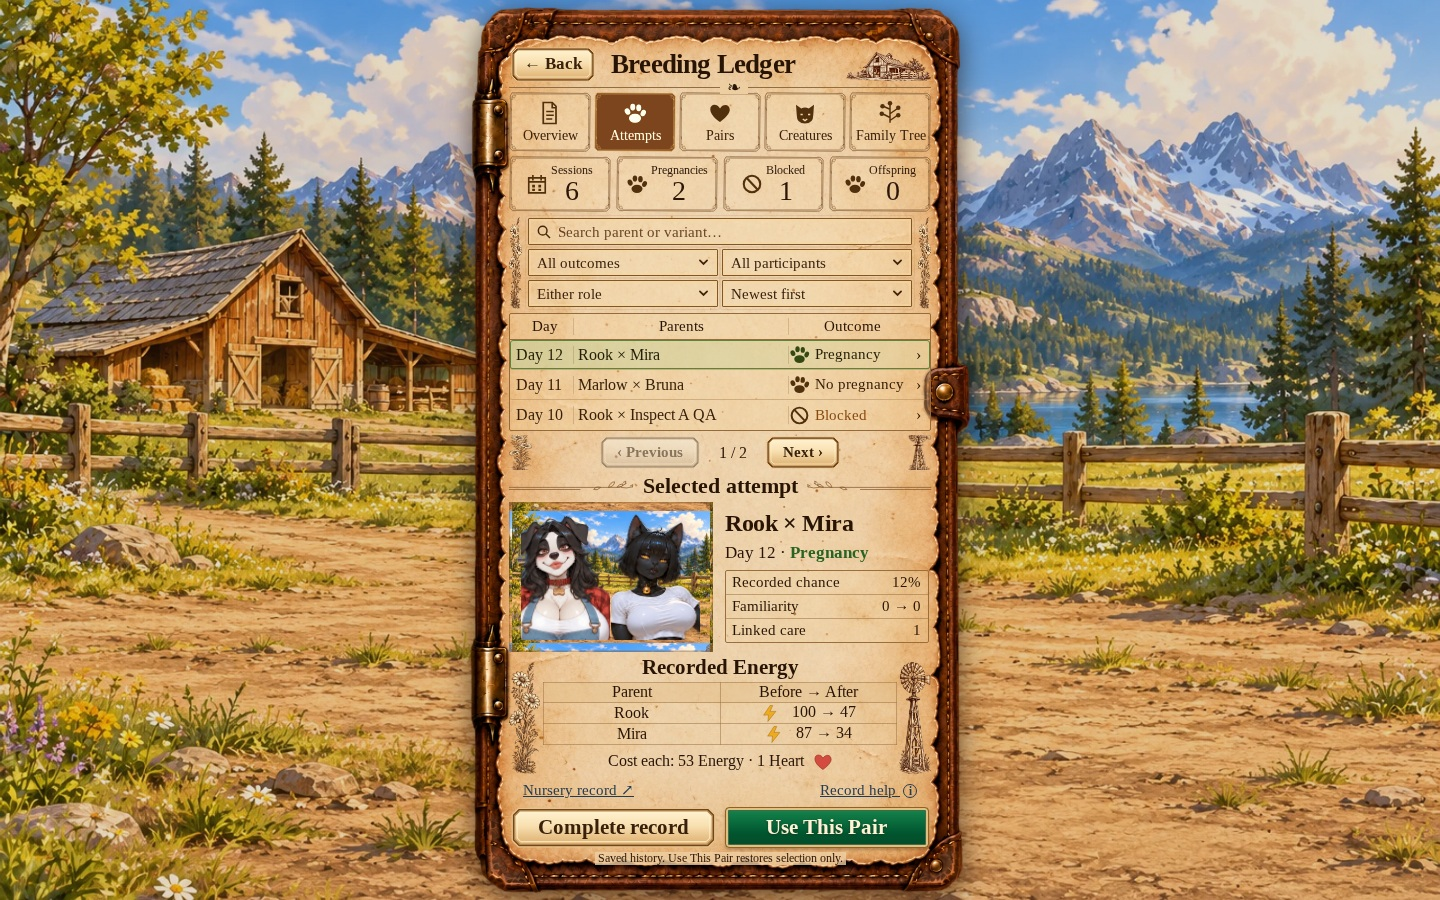
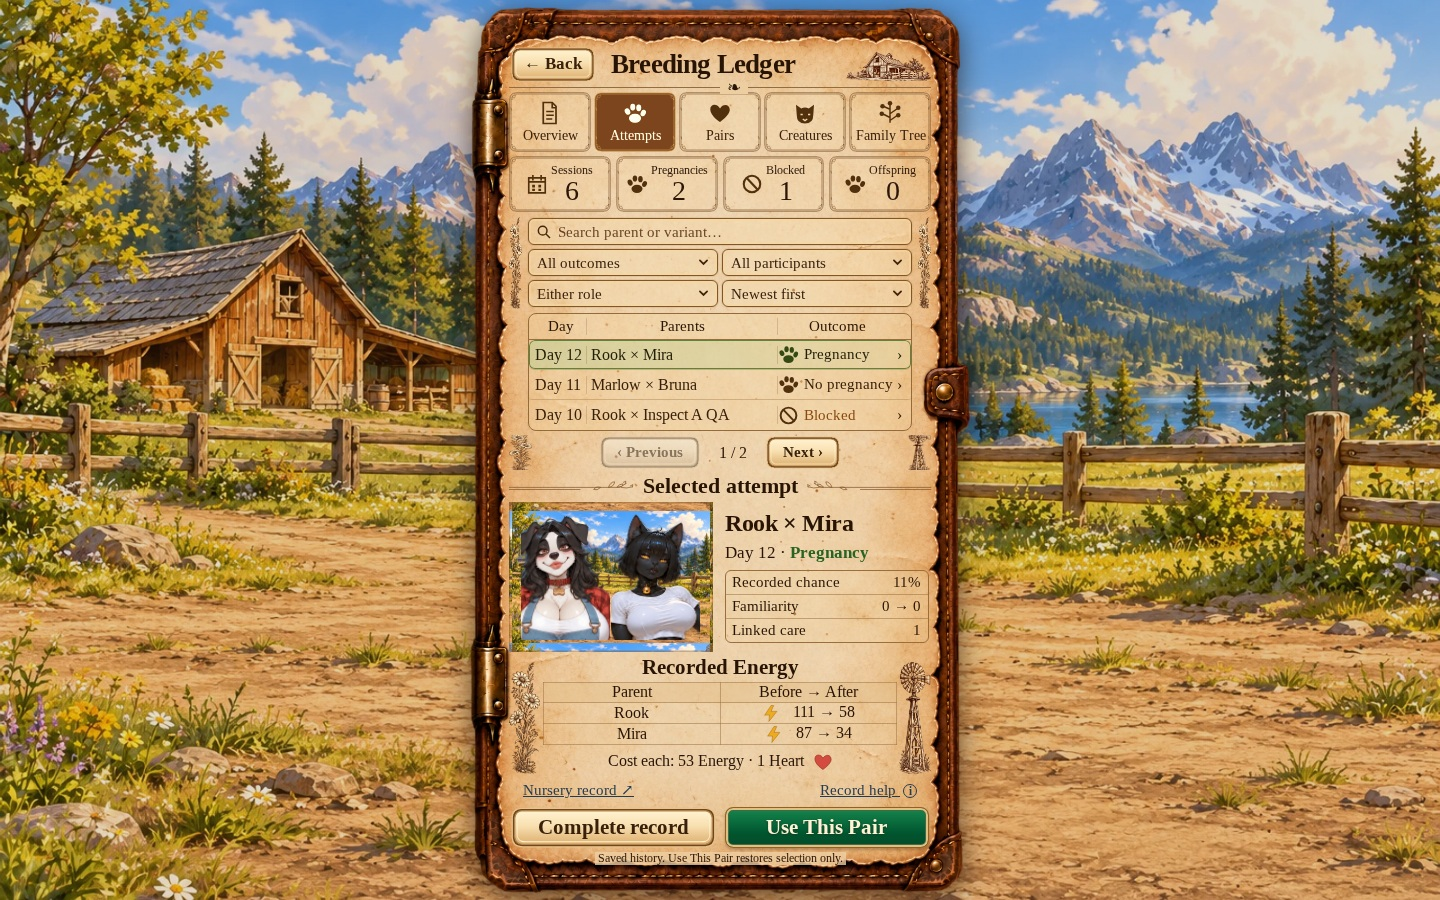
Round Ledger B controls and inset history to the paper gutters

diff --git a/src/features/breeding-records/BreedingLedgerBook.module.css b/src/features/breeding-records/BreedingLedgerBook.module.css
@@ -69,3 +69,19 @@
 .metrics>div{min-width:0}.metrics dt,.metrics dd{max-width:100%;overflow-wrap:anywhere}.comparison{table-layout:fixed}
 .tableHeader,.shell .row[data-attempt=true]{column-gap:0;padding-left:6px;padding-right:6px}
 @media(max-width:700px){.tableHeader,.shell .row[data-attempt=true]{padding-left:5px;padding-right:5px}}
+
+/* B rounded-edge reference pass: equal paper gutters and soft engraved corners. */
+.shell button{border-image-source:url('/images/ui/breeding-ledger-journal-b/fidelity-v5/cream.svg')}
+.shell .tabs button,.counts>div{border-image-source:url('/images/ui/breeding-ledger-journal-b/fidelity-v5/tab.svg')}
+.shell .tabs button[aria-pressed=true]{border-image-source:url('/images/ui/breeding-ledger-journal-b/fidelity-v5/tab-active.svg')}
+.shell .profile,.shell .link,.shell .row,.shell button[data-primary]{border-image:none}
+.filters :is(input,select){border-radius:6px;outline:none;box-shadow:inset 0 0 0 2px #f6d79c88,0 0 0 1px #b28b5933}
+.list{margin-inline:19px;border-radius:8px;flex-shrink:0}
+.shell .row[aria-pressed=true]{border-radius:6px}
+.summary dl{border-radius:6px;overflow:hidden}
+.content dl>div,.metrics>div{border-radius:6px}
+.actions button[data-primary]{border-radius:8px}
+.tableHeader,.shell .row[data-attempt=true]{grid-template-columns:52px minmax(0,1fr) 119px 8px}
+@media(max-width:700px){.list{margin-inline:14px}.tableHeader,.shell .row[data-attempt=true]{grid-template-columns:40px minmax(0,1fr) 94px 7px}.shell .row[data-attempt=true]>strong{padding-left:3px;padding-right:3px}}
+@media(max-height:600px){.list{margin-inline:8px}}
+@media(min-width:701px) and (max-height:500px){.list{margin-inline:0}.tableHeader,.shell .row[data-attempt=true]{grid-template-columns:43px minmax(0,1fr) 98px 7px}}

diff --git a/docs/BREEDING_LEDGER_JOURNAL_B_RUNTIME.md b/docs/BREEDING_LEDGER_JOURNAL_B_RUNTIME.md
@@ -14,3 +14,9 @@ User compared the next actual capture with B again. Fidelity-v3 adds visibly age
 
 ## Fourth pass: physical containment
 The user explicitly requested no content extending outside borders or lines. Fidelity-v4 removes the misleading painted inset rectangle, while retaining aged paper/leather. Native header/button heights, illustration frame insets, summary numeric columns and table separators now describe the actual content area. QA checks direct children against physical parent frames and direct text ranges against controls/cells, including real long-name short views; intentional scenic crops remain clipped and open full canonical figures on tap.
+
+## Rounded edges and history inset — October 26, 2026
+
+The user identified square-edged boxes and an overly wide Day / Parents / Outcome table. `fidelity-v5` refines existing editable SVG controls with curved double rules, preserving the etched corner details and paper/active colors. Filters, selected summary and record cards now have 6px corners; the history has an 8px outer corner. History is inset 19px on desktop and 14px on phones, sharing the actual filter-input edges, with shared narrower header/body columns. Short landscape retains its separate compact composition. No folio, character sources, data, callbacks or save behavior changed.
+
+Validation adds explicit rounded-control and equal history/filter-gutter assertions, retaining six viewport, parent-frame, actual text-range, aligned-column, long-name, archived/empty and all-eight read-only navigation checks. The history fixture is regenerated through the actual engine; its expected chance is read from the saved record rather than hardcoded to a previous randomized fixture.

diff --git a/AGENTS.md b/AGENTS.md
@@ -217,3 +217,5 @@ Ledger B second fidelity pass: preserve fidelity-v2's500px desktop folio, strong
 Ledger B third fidelity pass: use fidelity-v3's aged amber folio and translucent paper tabs/counts, regular tab/count typography, stronger engraved illustration corners, botanical heading rules and search/dropdown symbols. This refines v2, while reusing its detailed sepia margin art and canonical close profile sources. Keep UI text live and primary views inside the viewport; verify screenshot geometry after spacing/font changes.
 
 Ledger B containment follow-up: use fidelity-v4's folio without the baked inner rectangle that crossed live controls. Preserve physical picture-frame insets, clipped scenic profile buttons with complete-figure view, aligned table columns and summary grids. QA must check parent-frame bounds and actual text ranges as well as viewport/sibling bounds, including short long-name views. Do not hide text or controls to make checks pass.
+
+Ledger B rounded-edge follow-up: use fidelity-v5’s curved double-rule tab/count/cream controls, rounded filters/summary/history and history margins aligned with the actual filter-input gutters. Keep shared header/body column widths; do not expand the history back to the leather edge. Preserve v4 physical/text containment checks and canonical art.

diff --git a/public/images/ui/breeding-ledger-journal-b/fidelity-v5/README.md b/public/images/ui/breeding-ledger-journal-b/fidelity-v5/README.md
@@ -1,0 +1,3 @@
+# Ledger B rounded controls
+
+Native editable SVG refinements of the approved paper/umber control family. Curved double rules replace straight chamfers; the existing fine corner engraving, paper translucency and active colors remain. The history table is inset to the filter controls and has a rounded outer rule. No character, folio or historical data changes.
